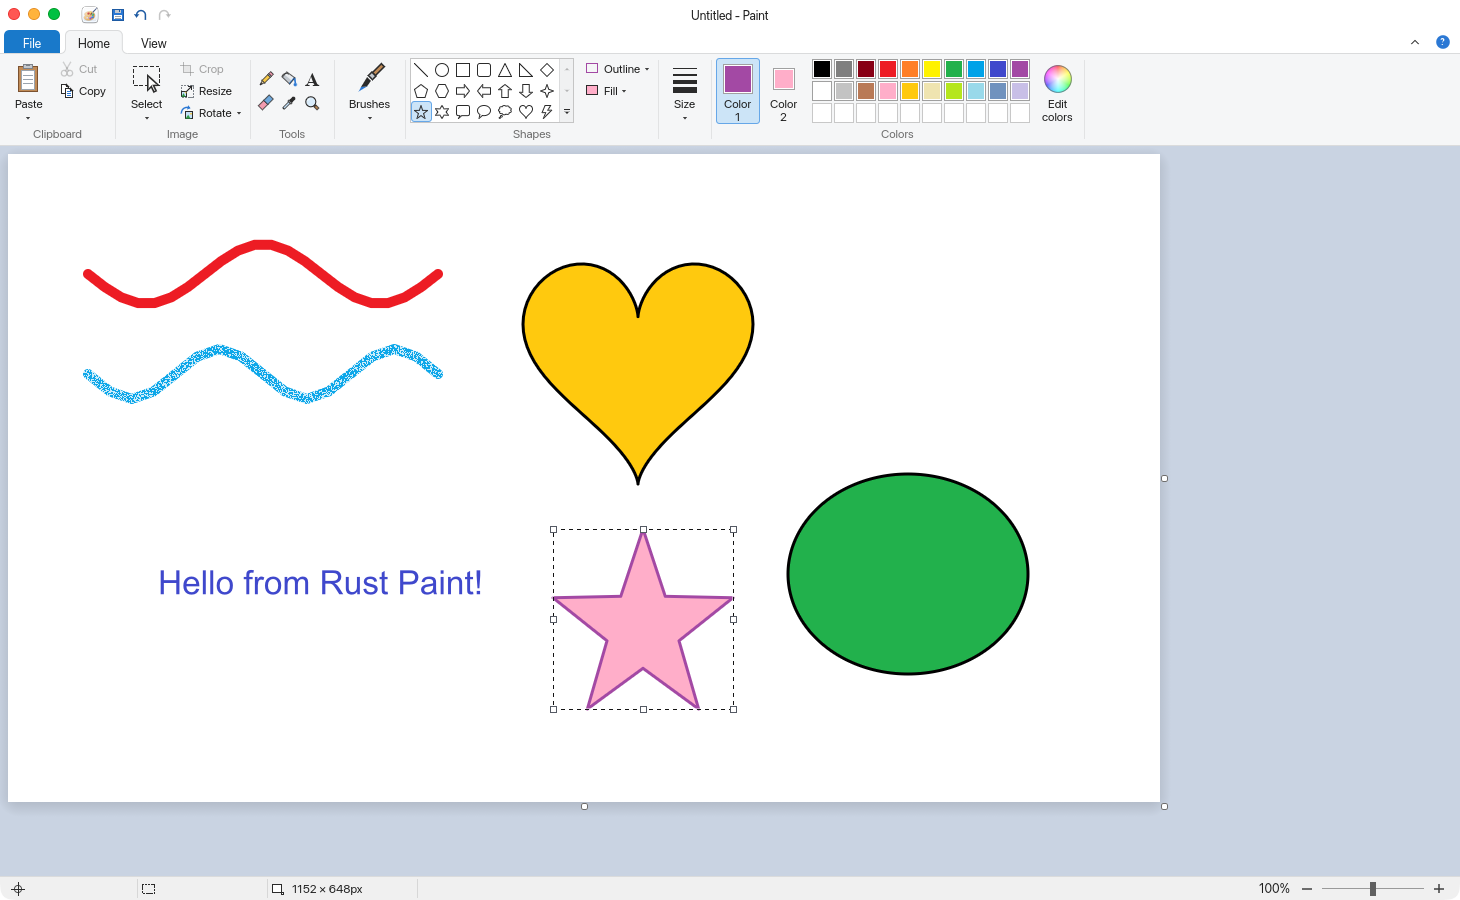
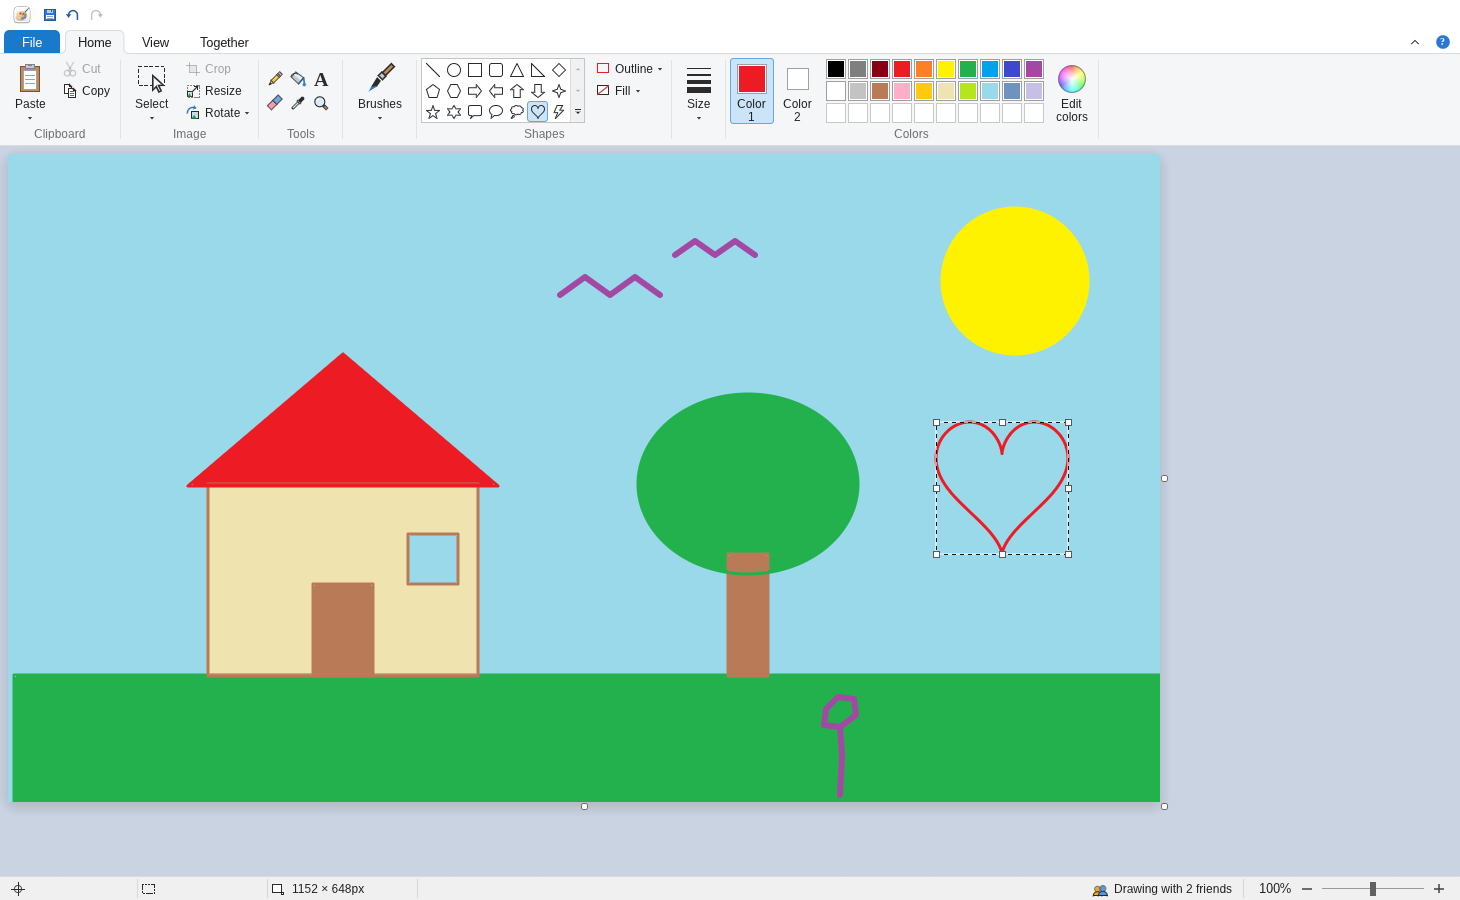
Publish as paint-together 0.2.0, with a README led by drawing together
- The crate is now paint-together (the installed command is still
  `paint`), version 0.2.0, with only the code, README and license
  packaged for crates.io.
- The README opens with drawing together: a new demo GIF of three kids
  building one picture across a Mac and a Linux box, the Together tab
  and Join dialog, then install via `cargo install paint-together`.
- Every screenshot is retaken on Linux so it shows the Together tab;
  facts are brought up to date (57 tests, the Friends list, pointers,
  notices, credits) and links point at the paint-together repo.

diff --git a/README.md b/README.md
@@ -1,12 +1,14 @@
-# Paint, in Rust
+# Paint Together
 
-A from-scratch reimplementation of **classic Microsoft Paint** (the Windows 7 / Windows 10 ribbon edition) for Linux, written in Rust with [egui](https://github.com/emilk/egui).
+**Classic Microsoft Paint, rebuilt in Rust, where kids on the same Wi-Fi draw on one picture together, live.** There's no server, no accounts and no internet: one kid starts a drawing, friends join it in a tap, and everyone sees each other's strokes and pointers as they draw.
 
-It recreates Paint's look and the way it behaves: the ribbon with its File menu and tabs, the tools and brushes, the shape gallery with shapes you can move and resize after drawing, typing straight onto the canvas, the Windows color dialog, rulers, and more. All of it runs natively on Linux, on both Wayland and X11.
+![Three kids drawing one picture together: Happy Otter draws the house, Brave Tiger the tree and birds, and Sunny Koala the sky, sun and grass, each seeing the others' pointers and strokes live](docs/demo.gif)
 
-Kids on the same Wi-Fi can also **draw together on one picture, in real time**, with no server and no internet: one kid starts a drawing, and friends join it in a tap.
+Underneath is a from-scratch reimplementation of **classic Paint** (the Windows 7 / Windows 10 ribbon edition) for Linux, written in Rust with [egui](https://github.com/emilk/egui). It has the ribbon with its File menu and tabs, the tools and brushes, shapes you can move and resize after drawing, typing straight onto the canvas, the Windows color dialog, rulers and more. It runs natively on Wayland and X11.
 
-![Paint in action: brush strokes, a live shape being resized, a fill, typing on the canvas and moving a selection](docs/demo.gif)
+```sh
+cargo install paint-together     # then run: paint
+```
 
 > **Not affiliated with Microsoft.** "Microsoft", "Windows" and "Paint" are trademarks of Microsoft Corporation. This project contains no Microsoft code, icons or other assets: every icon is drawn in code, and the app icon is original.
 
@@ -14,10 +16,10 @@ Kids on the same Wi-Fi can also **draw together on one picture, in real time**, 
 
 ## Contents
 
-- [Screenshots](#screenshots)
-- [Features](#features)
 - [Drawing together](#drawing-together)
 - [Install](#install)
+- [Screenshots](#screenshots)
+- [Features](#features)
 - [Build from source](#build-from-source)
 - [Using Paint](#using-paint)
 - [Keyboard shortcuts](#keyboard-shortcuts)
@@ -29,9 +31,66 @@ Kids on the same Wi-Fi can also **draw together on one picture, in real time**, 
 
 ---
 
+## Drawing together
+
+![A kid's Paint on the Together tab: the Friends list shows Happy Otter, Brave Tiger and Sunny Koala, and Brave Tiger's brush and name tag move across the picture as a purple flower is drawn](docs/screenshots/together.png)
+
+Everything happens on the **Together** tab.
+
+1. One kid presses **Start drawing**. Their picture becomes the shared one.
+2. Friends on the same Wi-Fi press **Join a drawing** and tap it in the list, or click *Join Maya's drawing* in the status bar. If it doesn't show up, type the address shown on the host's Together tab, such as `192.168.1.20`.
+3. Everyone draws at once.
+
+<img src="docs/screenshots/together-join.png" alt="The Join a drawing dialog, listing two drawings nearby with how many kids are in each, and a field to type an address" width="390">
+
+What you get:
+- **See friends draw as they draw.** Strokes, shapes being dragged out, text being typed and selections being moved all show up live on everyone's screen. You also see each friend's pointer: their tool (the eraser shows as its square), with their name in their colour.
+- **Every screen ends up identical.** The host's Paint puts every finished edit in one order and passes it on, and every app applies edits in that order. Edits travel as the pixels that changed, never as commands, so different computers, fonts or maths libraries can't make pictures drift apart.
+- **Undo takes back only your own work.** Anything a friend drew over it since stays.
+- **Anyone can change the whole picture** (New, Open, Rotate, Crop, Resize…). New and Open ask first, because they replace the picture on everyone's screen.
+- **If the host leaves, the drawing carries on.** The next kid's Paint takes over as host, and everyone reconnects to it automatically, keeping their undo history and any edits still on their way.
+- **Who's here.** The Friends list shows up to nine names, and a button opens the full list for a big room. The status bar says how many friends are drawing, and a short notice says who joined or left. When a crowd arrives, it's one notice, such as "12 friends joined".
+- **Fun names** ("Mighty Hedgehog") and colours, which you can change on the Together tab.
+
+From the command line, `paint --join 192.168.1.20` opens Paint and joins that drawing straight away.
+
+**Network:** drawing together uses TCP port **47100** (or another free port) for the drawing, and mDNS (UDP port **5353**) to find drawings nearby. Both stay on the local network. If a firewall blocks them, friends can't find or join the drawing; with `ufw`, for example, run `sudo ufw allow 47100/tcp` and `sudo ufw allow 5353/udp`. There is no join code: anyone on the same network can join a drawing they can see.
+
+---
+
+## Install
+
+**With Cargo** (any 64-bit Linux, on x86_64 or ARM64):
+
+```sh
+cargo install paint-together
+paint
+```
+
+This builds Paint from [crates.io](https://crates.io/crates/paint-together) and installs the `paint` command into `~/.cargo/bin`. You'll need [Rust](https://rustup.rs) 1.85 or later; no GTK, Qt or other `-dev` packages are needed.
+
+**Prebuilt (x86_64):** each [GitHub release](https://github.com/stephenkingston/paint-together/releases) has a `paint-<version>-linux-x86_64.tar.gz`. Drawing together arrived in version 0.2.0. Download it, then:
+
+```sh
+tar xzf paint-<version>-linux-x86_64.tar.gz
+cd paint-<version>-linux-x86_64
+./paint                 # run it from here, or
+./install.sh            # install it for your user
+```
+
+`install.sh` doesn't need root. It copies the binary to `~/.local/bin/paint`, and adds the icon and a *Paint* entry to your app launcher. To uninstall, delete `~/.local/bin/paint`, `~/.local/share/applications/paint.desktop` and `~/.local/share/icons/hicolor/256x256/apps/paint.png`. To check a download: `sha256sum -c paint-<version>-linux-x86_64.tar.gz.sha256`.
+
+### Requirements
+- **Linux with glibc 2.35 or newer** for the prebuilt binary: Ubuntu 22.04, Debian 12, Fedora 36, Arch, or later.
+- **Wayland or X11**, with working **Vulkan or OpenGL** drivers.
+- **fontconfig**, which the Text tool uses to find fonts.
+- An **XDG desktop portal** (`xdg-desktop-portal` plus a backend such as `-gtk`, `-kde`, `-gnome` or `-hyprland`) for the Open and Save dialogs. Desktop environments include one.
+
+---
+
 ## Screenshots
 
-**The main window**: Quick Access Toolbar, the File / Home / View tabs, the Home ribbon, the canvas and the status bar.
+**The main window**: Quick Access Toolbar, the File / Home / View / Together tabs, the Home ribbon, the canvas and the status bar.
 
 ![Main window](docs/screenshots/main-window.png)
 
@@ -55,7 +114,7 @@ Kids on the same Wi-Fi can also **draw together on one picture, in real time**, 
 ### The ribbon, as in Paint
 - **Quick Access Toolbar** above the tabs: Save, Undo, Redo.
 - **File menu** with New, Open, Save, *Save as* (PNG, JPEG, BMP, GIF, or *Other formats*), Properties, About and Exit, plus *Recent pictures*, which are kept between launches.
-- **Home**, **View** and a contextual **Text** tab. You can collapse the ribbon to just the tabs.
+- **Home**, **View**, **Together** and a contextual **Text** tab. You can collapse the ribbon to just the tabs.
 - Large and small buttons, split buttons (Paste, Select, Brushes), dropdown galleries and grouped captions, all in the Windows 10 "Scenic Ribbon" style. The tabs and highlights have softly rounded corners.
 
 ### Drawing tools
@@ -113,60 +172,14 @@ Kids on the same Wi-Fi can also **draw together on one picture, in real time**, 
 
 ---
 
-## Drawing together
-
-Everything happens on the **Together** tab.
-
-1. One kid presses **Start drawing**. Their picture becomes the shared one.
-2. Friends on the same Wi-Fi press **Join a drawing** and tap it in the list (or click *Join Maya's drawing* in the status bar). If it doesn't show up, type the address shown on the host's Together tab, such as `192.168.1.20`.
-3. Everyone draws at once.
-
-What you get:
-- **See friends draw as they draw.** Strokes, shapes being dragged out, text being typed and selections being moved all show up live on everyone's screen. You also see each friend's pointer (their tool, in their colour, with their name).
-- **Every screen ends up identical.** The host's Paint puts every finished edit in one order and passes it on, and every app applies edits in that order. Edits travel as the pixels that changed, never as commands, so different computers, fonts or maths libraries can't make pictures drift apart.
-- **Undo takes back only your own work.** Anything a friend drew over it since stays.
-- **Anyone can change the whole picture** (New, Open, Rotate, Crop, Resize…). New and Open ask first, because they replace the picture on everyone's screen.
-- **If the host leaves, the drawing carries on.** The next kid's Paint takes over as host, and everyone reconnects to it automatically. Nobody's unfinished edits or undo history are lost.
-- **Fun names** ("Mighty Hedgehog") and colours, which you can change on the Together tab.
-- A small notice pops up when friends join or leave.
-
-From the command line, `paint --join 192.168.1.20` opens Paint and joins that drawing straight away.
-
-**Network:** drawing together uses TCP port **47100** (or another free port) for the drawing, and mDNS (UDP port **5353**) to find drawings nearby. Both stay on the local network. If a firewall blocks them, friends can't find or join the drawing; with `ufw`, for example, run `sudo ufw allow 47100/tcp` and `sudo ufw allow 5353/udp`. There is no join code: anyone on the same network can join a drawing they can see.
-
----
-
-## Install
-
-Download `paint-v0.1.0-linux-x86_64.tar.gz` from the [latest release](https://github.com/stephenkingston/paint/releases/latest), then:
-
-```sh
-tar xzf paint-v0.1.0-linux-x86_64.tar.gz
-cd paint-v0.1.0-linux-x86_64
-./paint                 # run it from here, or
-./install.sh            # install it for your user
-```
-
-`install.sh` doesn't need root. It copies the binary to `~/.local/bin/paint`, and adds the icon and a *Paint* entry to your app launcher. To uninstall, delete `~/.local/bin/paint`, `~/.local/share/applications/paint.desktop` and `~/.local/share/icons/hicolor/256x256/apps/paint.png`.
-
-### Requirements
-- **x86_64 Linux with glibc 2.35 or newer**: Ubuntu 22.04, Debian 12, Fedora 36, Arch, or later.
-- **Wayland or X11**, with working **Vulkan or OpenGL** drivers.
-- **fontconfig**, which the Text tool uses to find fonts.
-- An **XDG desktop portal** (`xdg-desktop-portal` plus a backend such as `-gtk`, `-kde`, `-gnome` or `-hyprland`) for the Open and Save dialogs. Desktop environments include one.
-
-To check the download: `sha256sum -c paint-v0.1.0-linux-x86_64.tar.gz.sha256`.
-
----
-
 ## Build from source
 
 You'll need **Rust 1.85** or later (the project uses the 2024 edition); install it with [rustup](https://rustup.rs). No GTK, Qt or other `-dev` packages are needed.
 
 ```sh
-git clone https://github.com/stephenkingston/paint.git
-cd paint
-cargo run --release
+git clone https://github.com/stephenkingston/paint-together.git
+cd paint-together
+cargo run --release              # or: cargo install --path .
 ```
 
 To open a picture straight away:
@@ -278,13 +291,13 @@ Paint is a single egui application. Some details worth knowing:
 cargo test
 ```
 
-The suite of 54 tests covers:
+The suite of 57 tests covers:
 - **Pixel engine:** polygon coverage, anti-aliased capsules, flood fill boundaries, tolerance, and fills that reach anti-aliased edges without leaking.
 - **Undo history.**
 - **Shapes and brushes:** the geometry of every shape, and every brush.
 - **Tools, driven as the mouse drives them:** strokes with either mouse button, the eraser, shape outline and fill, live shapes (moving, resizing, restyling, deleting), selections (moving, free-form delete, transparent selection, rotating a selection), and pasting an image larger than the canvas.
 - **Text:** rendering, and on-canvas typing using real keyboard events (caret movement, word selection, undo, input-method text, paste, click-to-place-caret).
-- **Zoom** stays centered on the pointer. **Gridlines** are spaced for every zoom level, and Pencil, Fill and Brushes use their own pointer.
+- **Zoom** stays centered on the pointer. **Gridlines** are spaced for every zoom level. Pencil, Fill, Brushes and Color picker use their own pointer, and the Eraser shows only its square.
 - **Drawing together:**
   - **Simulated rooms.** Several Paints share one hub, and the tests decide exactly when every message arrives. Directed tests cover:
     - a friend's stroke arriving while I'm mid-stroke;
@@ -292,9 +305,11 @@ The suite of 54 tests covers:
     - drawing under my text box and under a selection I'm moving;
     - a friend rotating the picture mid-stroke;
     - undo leaving friends' pixels alone;
-    - previews and pointers.
+    - previews, pointers and friends' tools;
+    - join and leave notices (a crowd arriving is one notice);
+    - friends' drawings in progress merged into the picture on screen.
   - **Random sessions.** Randomized sessions of strokes, fills, shapes, text, moved selections, undo, redo and whole-picture changes, with messages arriving in random orders. Every screen must end up identical, byte for byte, with no friend's unfinished drawing left behind.
-  - **Real sockets.** Message framing and size limits, a host and a friend talking over real sockets, and a host leaving while the next kid takes over.
+  - **Real sockets.** Message framing and size limits, a host and a friend talking over real sockets, a quiet friend staying connected while another chats, and a host leaving while the next kid takes over.
 
 One more test is run by hand across two computers: start a drawing on one, then on the other run `PAINT_JOIN=<address> cargo test joins_a_real_room -- --ignored --nocapture`.
 
@@ -317,4 +332,4 @@ One more test is run by hand across two computers: start a drawing on one, then 
 
 Released under the [MIT License](LICENSE). © 2026 Stephen Kingston.
 
-Built with [egui/eframe](https://github.com/emilk/egui), [image](https://github.com/image-rs/image), [ab_glyph](https://github.com/alexheretic/ab-glyph), [rfd](https://github.com/PolyMeilleur/rfd) and [arboard](https://github.com/1Password/arboard).
+Built with [egui/eframe](https://github.com/emilk/egui), [image](https://github.com/image-rs/image), [ab_glyph](https://github.com/alexheretic/ab-glyph), [rfd](https://github.com/PolyMeilleur/rfd), [arboard](https://github.com/1Password/arboard), [mdns-sd](https://github.com/keepsimple1/mdns-sd), [bincode](https://github.com/bincode-org/bincode) and [flate2](https://github.com/rust-lang/flate2-rs).

diff --git a/packaging/release-notes.md b/packaging/release-notes.md
@@ -1,4 +1,6 @@
-A from-scratch Rust reimplementation of classic Microsoft Paint (the Windows 7/10 ribbon edition). See the [README](https://github.com/stephenkingston/paint#readme) for the full feature tour.
+Classic Microsoft Paint (the Windows 7/10 ribbon edition), rebuilt in Rust, where kids on the same Wi-Fi draw on one picture together in real time: start a drawing on the **Together** tab, and friends join it in a tap. See the [README](https://github.com/stephenkingston/paint-together#readme) for the full tour.
+
+Also on crates.io: `cargo install paint-together` installs the `paint` command.
 
 ### Linux (x86_64)
 
